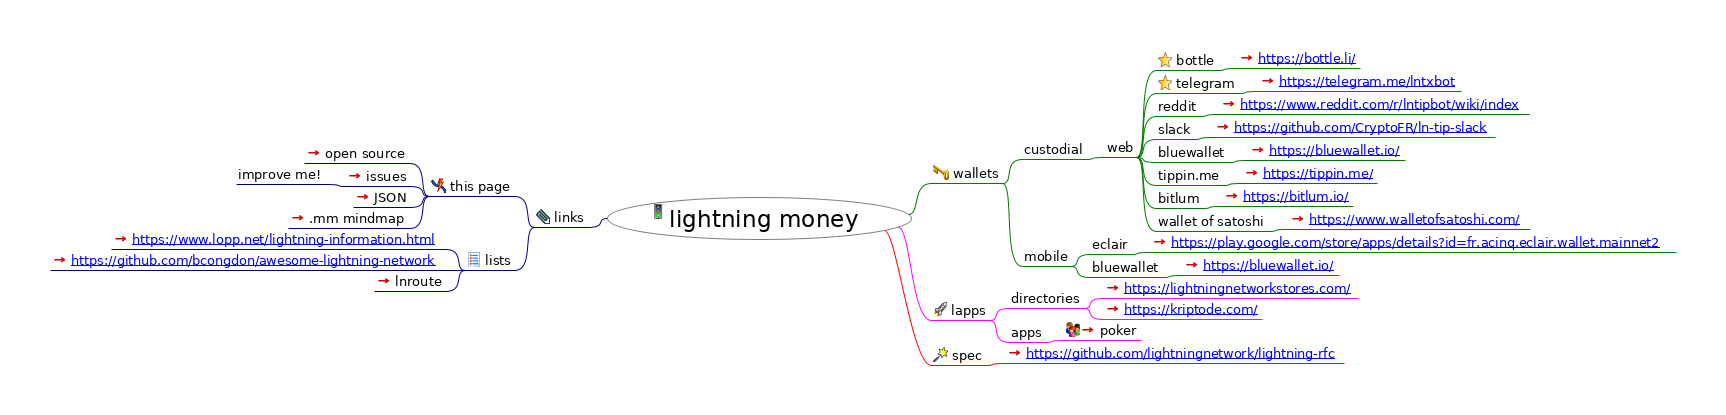
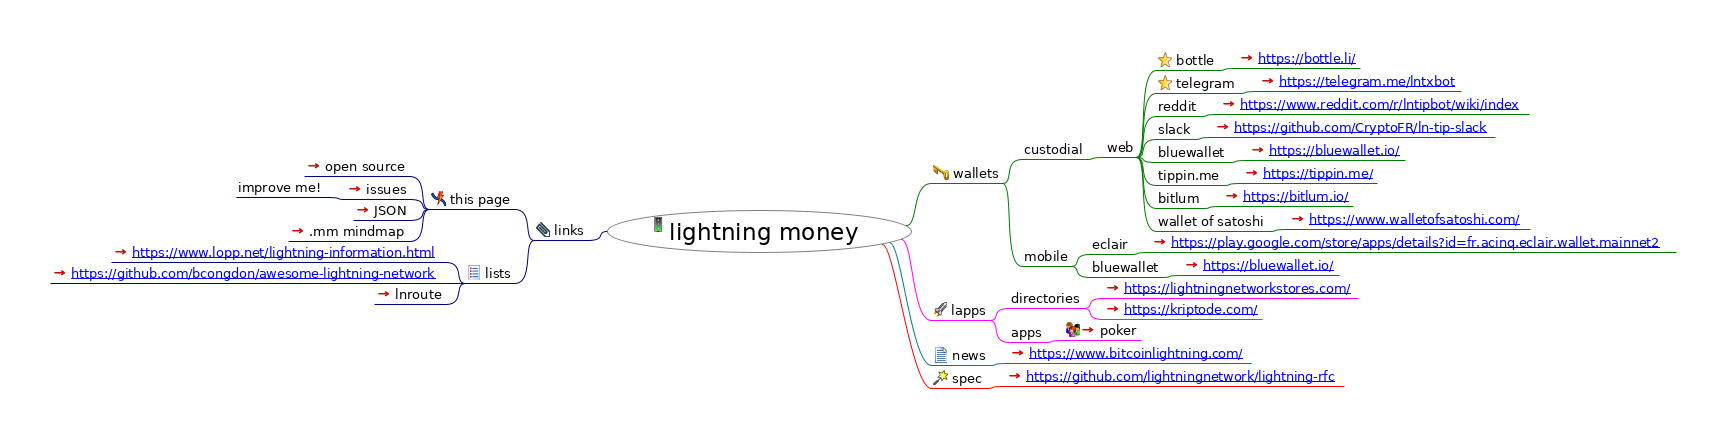
DEFAULT_MESSAGE

diff --git a/index.html b/index.html
@@ -23,7 +23,7 @@
                    };
                };
           
-          --></script></head><body><h1>lightning money</h1><div style="width:96%;  padding:2%;  margin-bottom:10px;  border: 0px;  text-align:center;  vertical-align:center;"><img src="index.html_files/image.png" style="margin-bottom:10px; &#9;border: 0px; &#9;text-align:center; &#9;vertical-align:center;" alt="Imagemap" usemap="#fm_imagemap" /></div><map name="fm_imagemap" id="fm_imagemap"><area shape="rect" href="#FMID_1568754813FM" alt="lightning money" title="lightning money" coords="607,197,912,240" />
+          --></script></head><body><h1>lightning money</h1><div style="width:96%;  padding:2%;  margin-bottom:10px;  border: 0px;  text-align:center;  vertical-align:center;"><img src="index.html_files/image.png" style="margin-bottom:10px; &#9;border: 0px; &#9;text-align:center; &#9;vertical-align:center;" alt="Imagemap" usemap="#fm_imagemap" /></div><map name="fm_imagemap" id="fm_imagemap"><area shape="rect" href="#FMID_1568754813FM" alt="lightning money" title="lightning money" coords="607,210,912,253" />
 <area shape="rect" href="#FMID_403237537FM" alt="wallets" title="wallets" coords="931,165,1003,183" />
 <area shape="rect" href="#FMID_713142011FM" alt="custodial" title="custodial" coords="1022,141,1086,159" />
 <area shape="rect" href="#FMID_1071283894FM" alt="web" title="web" coords="1105,139,1137,157" />
@@ -54,19 +54,21 @@
 <area shape="rect" href="https://kriptode.com/" alt="https://kriptode.com/" title="https://kriptode.com/" coords="1103,301,1262,319" />
 <area shape="rect" href="#FMID_1371138197FM" alt="apps" title="apps" coords="1009,324,1045,342" />
 <area shape="rect" href="https://lightning-poker.com/" alt="poker" title="poker" coords="1064,322,1141,340" />
-<area shape="rect" href="#FMID_1721082161FM" alt="spec" title="spec" coords="931,347,986,365" />
-<area shape="rect" href="https://github.com/lightningnetwork/lightning-rfc" alt="https://github.com/lightningnetwork/ligh ..." title="https://github.com/lightningnetwork/ligh ..." coords="1005,345,1344,363" />
-<area shape="rect" href="#FMID_728396892FM" alt="links" title="links" coords="534,209,588,227" />
-<area shape="rect" href="#FMID_1704672214FM" alt="this page" title="this page" coords="429,178,515,196" />
-<area shape="rect" href="https://github.com/solidpayorg/lightning.money/" alt="open source" title="open source" coords="304,145,410,163" />
-<area shape="rect" href="https://github.com/solidpayorg/lightning.money/issues" alt="issues" title="issues" coords="345,168,410,186" />
-<area shape="rect" href="#FMID_824388782FM" alt="improve me!" title="improve me!" coords="236,166,326,184" />
-<area shape="rect" href="index.json" alt="JSON" title="JSON" coords="353,189,410,207" />
-<area shape="rect" href="index.html" alt=".mm mindmap" title=".mm mindmap" coords="288,210,410,228" />
-<area shape="rect" href="#FMID_1744026554FM" alt="lists" title="lists" coords="465,252,515,270" />
-<area shape="rect" href="https://www.lopp.net/lightning-information.html" alt="https://www.lopp.net/lightning-informati ..." title="https://www.lopp.net/lightning-informati ..." coords="111,231,446,249" />
-<area shape="rect" href="https://github.com/bcongdon/awesome-lightning-network" alt="https://github.com/bcongdon/awesome-ligh ..." title="https://github.com/bcongdon/awesome-ligh ..." coords="50,252,446,270" />
-<area shape="rect" href="https://lnroute.com/" alt="lnroute" title="lnroute" coords="374,273,446,291" />
+<area shape="rect" href="#FMID_1050804376FM" alt="news" title="news" coords="931,347,989,365" />
+<area shape="rect" href="https://www.bitcoinlightning.com/" alt="https://www.bitcoinlightning.com/ " title="https://www.bitcoinlightning.com/ " coords="1008,345,1251,363" />
+<area shape="rect" href="#FMID_1721082161FM" alt="spec" title="spec" coords="931,370,986,388" />
+<area shape="rect" href="https://github.com/lightningnetwork/lightning-rfc" alt="https://github.com/lightningnetwork/ligh ..." title="https://github.com/lightningnetwork/ligh ..." coords="1005,368,1344,386" />
+<area shape="rect" href="#FMID_728396892FM" alt="links" title="links" coords="534,222,588,240" />
+<area shape="rect" href="#FMID_1704672214FM" alt="this page" title="this page" coords="429,191,515,209" />
+<area shape="rect" href="https://github.com/solidpayorg/lightning.money/" alt="open source" title="open source" coords="304,158,410,176" />
+<area shape="rect" href="https://github.com/solidpayorg/lightning.money/issues" alt="issues" title="issues" coords="345,181,410,199" />
+<area shape="rect" href="#FMID_824388782FM" alt="improve me!" title="improve me!" coords="236,179,326,197" />
+<area shape="rect" href="index.json" alt="JSON" title="JSON" coords="353,202,410,220" />
+<area shape="rect" href="index.html" alt=".mm mindmap" title=".mm mindmap" coords="288,223,410,241" />
+<area shape="rect" href="#FMID_1744026554FM" alt="lists" title="lists" coords="465,265,515,283" />
+<area shape="rect" href="https://www.lopp.net/lightning-information.html" alt="https://www.lopp.net/lightning-informati ..." title="https://www.lopp.net/lightning-informati ..." coords="111,244,446,262" />
+<area shape="rect" href="https://github.com/bcongdon/awesome-lightning-network" alt="https://github.com/bcongdon/awesome-ligh ..." title="https://github.com/bcongdon/awesome-ligh ..." coords="50,265,446,283" />
+<area shape="rect" href="https://lnroute.com/" alt="lnroute" title="lnroute" coords="374,286,446,304" />
 </map>
 
 <div class="node"><img src="index.html_files/hide.png" class="hideshow" alt="hide" onClick="toggle(&quot;N65543&quot;)" id="imgN65543" /><img src="index.html_files/icons/go.svg" alt="go" /> <a id="FMID_1568754813FM" /><div class="nodecontent" style="color:#000000;font-size:150%;">lightning money</div><div class="content" id="N65543"><div class="node"><img src="index.html_files/hide.png" class="hideshow" alt="hide" onClick="toggle(&quot;N66444&quot;)" id="imgN66444" /><img src="index.html_files/icons/password.svg" alt="password" /> <a id="FMID_403237537FM" /><div class="nodecontent" style="color:#000000;font-size:83%;">wallets</div><div class="content" id="N66444"><div class="node"><img src="index.html_files/hide.png" class="hideshow" alt="hide" onClick="toggle(&quot;N66485&quot;)" id="imgN66485" /><a id="FMID_713142011FM" /><div class="nodecontent" style="color:#000000;font-size:83%;">custodial</div><div class="content" id="N66485"><div class="node"><img src="index.html_files/hide.png" class="hideshow" alt="hide" onClick="toggle(&quot;N66520&quot;)" id="imgN66520" /><a id="FMID_1071283894FM" /><div class="nodecontent" style="color:#000000;font-size:83%;">web</div><div class="content" id="N66520"><div class="node"><img src="index.html_files/hide.png" class="hideshow" alt="hide" onClick="toggle(&quot;N66555&quot;)" id="imgN66555" /><img src="index.html_files/icons/bookmark.svg" alt="bookmark" /> <a id="FMID_432921303FM" /><div class="nodecontent" style="color:#000000;font-size:83%;">bottle</div><div class="content" id="N66555"><div class="node"><img src="index.html_files/leaf.png" class="hideshow" alt="leaf" /><a id="FMID_1723379621FM" /><div class="nodecontent" style="color:#000000;font-size:83%;"><a href="https://bottle.li/">
@@ -93,9 +95,11 @@
     <a http-equiv="content-type" content="text/html; charset=utf-8" href="https://lightningnetworkstores.com/">https://lightningnetworkstores.com/</a>
   </a> <a href="https://lightningnetworkstores.com/"><img src="index.html_files/ilink.png" alt="User Link" style="border-width:0" /></a></div></div><div class="node"><img src="index.html_files/leaf.png" class="hideshow" alt="leaf" /><a id="FMID_759991484FM" /><div class="nodecontent" style="color:#000000;font-size:83%;"><a href="https://kriptode.com/">
     <a http-equiv="content-type" content="text/html; charset=utf-8" href="https://kriptode.com/">https://kriptode.com/</a>
-  </a> <a href="https://kriptode.com/"><img src="index.html_files/ilink.png" alt="User Link" style="border-width:0" /></a></div></div></div></div><div class="node"><img src="index.html_files/hide.png" class="hideshow" alt="hide" onClick="toggle(&quot;N67701&quot;)" id="imgN67701" /><a id="FMID_1371138197FM" /><div class="nodecontent" style="color:#000000;font-size:83%;">apps</div><div class="content" id="N67701"><div class="node"><img src="index.html_files/leaf.png" class="hideshow" alt="leaf" /><img src="index.html_files/icons/group.svg" alt="group" /> <a id="FMID_491528674FM" /><div class="nodecontent" style="color:#000000;font-size:83%;"><a href="https://lightning-poker.com/">poker</a> <a href="https://lightning-poker.com/"><img src="index.html_files/ilink.png" alt="User Link" style="border-width:0" /></a></div></div></div></div></div></div><div class="node"><img src="index.html_files/hide.png" class="hideshow" alt="hide" onClick="toggle(&quot;N67780&quot;)" id="imgN67780" /><img src="index.html_files/icons/wizard.svg" alt="wizard" /> <a id="FMID_1721082161FM" /><div class="nodecontent" style="color:#000000;font-size:83%;">spec</div><div class="content" id="N67780"><div class="node"><img src="index.html_files/leaf.png" class="hideshow" alt="leaf" /><a id="FMID_1858353829FM" /><div class="nodecontent" style="color:#000000;font-size:83%;"><a href="https://github.com/lightningnetwork/lightning-rfc">
+  </a> <a href="https://kriptode.com/"><img src="index.html_files/ilink.png" alt="User Link" style="border-width:0" /></a></div></div></div></div><div class="node"><img src="index.html_files/hide.png" class="hideshow" alt="hide" onClick="toggle(&quot;N67701&quot;)" id="imgN67701" /><a id="FMID_1371138197FM" /><div class="nodecontent" style="color:#000000;font-size:83%;">apps</div><div class="content" id="N67701"><div class="node"><img src="index.html_files/leaf.png" class="hideshow" alt="leaf" /><img src="index.html_files/icons/group.svg" alt="group" /> <a id="FMID_491528674FM" /><div class="nodecontent" style="color:#000000;font-size:83%;"><a href="https://lightning-poker.com/">poker</a> <a href="https://lightning-poker.com/"><img src="index.html_files/ilink.png" alt="User Link" style="border-width:0" /></a></div></div></div></div></div></div><div class="node"><img src="index.html_files/hide.png" class="hideshow" alt="hide" onClick="toggle(&quot;N67780&quot;)" id="imgN67780" /><img src="index.html_files/icons/16x16-free-application-icons/png/16x16/Text.svg" alt="16x16-free-application-icons/png/16x16/Text" /> <a id="FMID_1050804376FM" /><div class="nodecontent" style="color:#000000;font-size:83%;">news</div><div class="content" id="N67780"><div class="node"><img src="index.html_files/leaf.png" class="hideshow" alt="leaf" /><a id="FMID_1919527951FM" /><div class="nodecontent" style="color:#000000;font-size:83%;"><a href="https://www.bitcoinlightning.com/">
+    <a http-equiv="content-type" content="text/html; charset=utf-8" href="https://www.bitcoinlightning.com/">https://www.bitcoinlightning.com/</a> 
+  </a> <a href="https://www.bitcoinlightning.com/"><img src="index.html_files/ilink.png" alt="User Link" style="border-width:0" /></a></div></div></div></div><div class="node"><img src="index.html_files/hide.png" class="hideshow" alt="hide" onClick="toggle(&quot;N67877&quot;)" id="imgN67877" /><img src="index.html_files/icons/wizard.svg" alt="wizard" /> <a id="FMID_1721082161FM" /><div class="nodecontent" style="color:#000000;font-size:83%;">spec</div><div class="content" id="N67877"><div class="node"><img src="index.html_files/leaf.png" class="hideshow" alt="leaf" /><a id="FMID_1858353829FM" /><div class="nodecontent" style="color:#000000;font-size:83%;"><a href="https://github.com/lightningnetwork/lightning-rfc">
     <a http-equiv="content-type" content="text/html; charset=utf-8" href="https://github.com/lightningnetwork/lightning-rfc">https://github.com/lightningnetwork/lightning-rfc</a>
-  </a> <a href="https://github.com/lightningnetwork/lightning-rfc"><img src="index.html_files/ilink.png" alt="User Link" style="border-width:0" /></a></div></div></div></div><div class="node"><img src="index.html_files/hide.png" class="hideshow" alt="hide" onClick="toggle(&quot;N67877&quot;)" id="imgN67877" /><img src="index.html_files/icons/attach.svg" alt="attach" /> <a id="FMID_728396892FM" /><div class="nodecontent" style="color:#000000;font-size:83%;">links</div><div class="content" id="N67877"><div class="node"><img src="index.html_files/hide.png" class="hideshow" alt="hide" onClick="toggle(&quot;N67918&quot;)" id="imgN67918" /><img src="index.html_files/icons/broken-line.svg" alt="broken-line" /> <a id="FMID_1704672214FM" /><div class="nodecontent" style="color:#000000;font-size:83%;">this page</div><div class="content" id="N67918"><div class="node"><img src="index.html_files/leaf.png" class="hideshow" alt="leaf" /><a id="FMID_1211678675FM" /><div class="nodecontent" style="color:#000000;font-size:83%;"><a href="https://github.com/solidpayorg/lightning.money/">open source</a> <a href="https://github.com/solidpayorg/lightning.money/"><img src="index.html_files/ilink.png" alt="User Link" style="border-width:0" /></a></div></div><div class="node"><img src="index.html_files/hide.png" class="hideshow" alt="hide" onClick="toggle(&quot;N67995&quot;)" id="imgN67995" /><a id="FMID_1677347904FM" /><div class="nodecontent" style="color:#000000;font-size:83%;"><a href="https://github.com/solidpayorg/lightning.money/issues">issues</a> <a href="https://github.com/solidpayorg/lightning.money/issues"><img src="index.html_files/ilink.png" alt="User Link" style="border-width:0" /></a></div><div class="content" id="N67995"><div class="node"><img src="index.html_files/leaf.png" class="hideshow" alt="leaf" /><a id="FMID_824388782FM" /><div class="nodecontent" style="color:#000000;font-size:83%;">improve me!</div></div></div></div><div class="node"><img src="index.html_files/leaf.png" class="hideshow" alt="leaf" /><a id="FMID_903253757FM" /><div class="nodecontent" style="color:#000000;font-size:83%;"><a href="index.json">JSON</a> <a href="index.json"><img src="index.html_files/ilink.png" alt="User Link" style="border-width:0" /></a></div></div><div class="node"><img src="index.html_files/leaf.png" class="hideshow" alt="leaf" /><a id="FMID_963935095FM" /><div class="nodecontent" style="color:#000000;font-size:83%;"><a href="index.html">.mm mindmap</a> <a href="index.html"><img src="index.html_files/ilink.png" alt="User Link" style="border-width:0" /></a></div></div></div></div><div class="node"><img src="index.html_files/hide.png" class="hideshow" alt="hide" onClick="toggle(&quot;N68143&quot;)" id="imgN68143" /><img src="index.html_files/icons/list.svg" alt="list" /> <a id="FMID_1744026554FM" /><div class="nodecontent" style="color:#000000;font-size:83%;">lists</div><div class="content" id="N68143"><div class="node"><img src="index.html_files/leaf.png" class="hideshow" alt="leaf" /><a id="FMID_1897426799FM" /><div class="nodecontent" style="color:#000000;font-size:83%;"><a href="https://www.lopp.net/lightning-information.html">
+  </a> <a href="https://github.com/lightningnetwork/lightning-rfc"><img src="index.html_files/ilink.png" alt="User Link" style="border-width:0" /></a></div></div></div></div><div class="node"><img src="index.html_files/hide.png" class="hideshow" alt="hide" onClick="toggle(&quot;N67974&quot;)" id="imgN67974" /><img src="index.html_files/icons/attach.svg" alt="attach" /> <a id="FMID_728396892FM" /><div class="nodecontent" style="color:#000000;font-size:83%;">links</div><div class="content" id="N67974"><div class="node"><img src="index.html_files/hide.png" class="hideshow" alt="hide" onClick="toggle(&quot;N68015&quot;)" id="imgN68015" /><img src="index.html_files/icons/broken-line.svg" alt="broken-line" /> <a id="FMID_1704672214FM" /><div class="nodecontent" style="color:#000000;font-size:83%;">this page</div><div class="content" id="N68015"><div class="node"><img src="index.html_files/leaf.png" class="hideshow" alt="leaf" /><a id="FMID_1211678675FM" /><div class="nodecontent" style="color:#000000;font-size:83%;"><a href="https://github.com/solidpayorg/lightning.money/">open source</a> <a href="https://github.com/solidpayorg/lightning.money/"><img src="index.html_files/ilink.png" alt="User Link" style="border-width:0" /></a></div></div><div class="node"><img src="index.html_files/hide.png" class="hideshow" alt="hide" onClick="toggle(&quot;N68092&quot;)" id="imgN68092" /><a id="FMID_1677347904FM" /><div class="nodecontent" style="color:#000000;font-size:83%;"><a href="https://github.com/solidpayorg/lightning.money/issues">issues</a> <a href="https://github.com/solidpayorg/lightning.money/issues"><img src="index.html_files/ilink.png" alt="User Link" style="border-width:0" /></a></div><div class="content" id="N68092"><div class="node"><img src="index.html_files/leaf.png" class="hideshow" alt="leaf" /><a id="FMID_824388782FM" /><div class="nodecontent" style="color:#000000;font-size:83%;">improve me!</div></div></div></div><div class="node"><img src="index.html_files/leaf.png" class="hideshow" alt="leaf" /><a id="FMID_903253757FM" /><div class="nodecontent" style="color:#000000;font-size:83%;"><a href="index.json">JSON</a> <a href="index.json"><img src="index.html_files/ilink.png" alt="User Link" style="border-width:0" /></a></div></div><div class="node"><img src="index.html_files/leaf.png" class="hideshow" alt="leaf" /><a id="FMID_963935095FM" /><div class="nodecontent" style="color:#000000;font-size:83%;"><a href="index.html">.mm mindmap</a> <a href="index.html"><img src="index.html_files/ilink.png" alt="User Link" style="border-width:0" /></a></div></div></div></div><div class="node"><img src="index.html_files/hide.png" class="hideshow" alt="hide" onClick="toggle(&quot;N68240&quot;)" id="imgN68240" /><img src="index.html_files/icons/list.svg" alt="list" /> <a id="FMID_1744026554FM" /><div class="nodecontent" style="color:#000000;font-size:83%;">lists</div><div class="content" id="N68240"><div class="node"><img src="index.html_files/leaf.png" class="hideshow" alt="leaf" /><a id="FMID_1897426799FM" /><div class="nodecontent" style="color:#000000;font-size:83%;"><a href="https://www.lopp.net/lightning-information.html">
     <a http-equiv="content-type" content="text/html; charset=utf-8" href="https://www.lopp.net/lightning-information.html">https://www.lopp.net/lightning-information.html</a>
   </a> <a href="https://www.lopp.net/lightning-information.html"><img src="index.html_files/ilink.png" alt="User Link" style="border-width:0" /></a></div></div><div class="node"><img src="index.html_files/leaf.png" class="hideshow" alt="leaf" /><a id="FMID_1244510370FM" /><div class="nodecontent" style="color:#000000;font-size:83%;"><a href="https://github.com/bcongdon/awesome-lightning-network">
     <a http-equiv="content-type" content="text/html; charset=utf-8" href="https://github.com/bcongdon/awesome-lightning-network">https://github.com/bcongdon/awesome-lightning-network</a>

diff --git a/index.mm b/index.mm
@@ -64,7 +64,7 @@
 </stylenode>
 </map_styles>
 </hook>
-<hook NAME="AutomaticEdgeColor" COUNTER="9" RULE="ON_BRANCH_CREATION"/>
+<hook NAME="AutomaticEdgeColor" COUNTER="10" RULE="ON_BRANCH_CREATION"/>
 <node TEXT="wallets" POSITION="right" ID="ID_403237537" CREATED="1569861472802" MODIFIED="1569861865685">
 <icon BUILTIN="password"/>
 <edge COLOR="#007c00"/>
@@ -250,6 +250,23 @@
 <node TEXT="poker" ID="ID_491528674" CREATED="1569961191850" MODIFIED="1569961222296" LINK="https://lightning-poker.com/">
 <icon BUILTIN="group"/>
 </node>
+</node>
+</node>
+<node TEXT="news" POSITION="right" ID="ID_1050804376" CREATED="1570785347577" MODIFIED="1570785364319">
+<icon BUILTIN="16x16-free-application-icons/png/16x16/Text"/>
+<edge COLOR="#007c7c"/>
+<node ID="ID_1919527951" CREATED="1570785367171" MODIFIED="1570785367171" LINK="https://www.bitcoinlightning.com/"><richcontent TYPE="NODE">
+
+<html>
+  <head>
+    
+  </head>
+  <body>
+    <a http-equiv="content-type" content="text/html; charset=utf-8" href="https://www.bitcoinlightning.com/">https://www.bitcoinlightning.com/</a> 
+  </body>
+</html>
+
+</richcontent>
 </node>
 </node>
 <node TEXT="spec" POSITION="right" ID="ID_1721082161" CREATED="1569861329052" MODIFIED="1569940961929">
